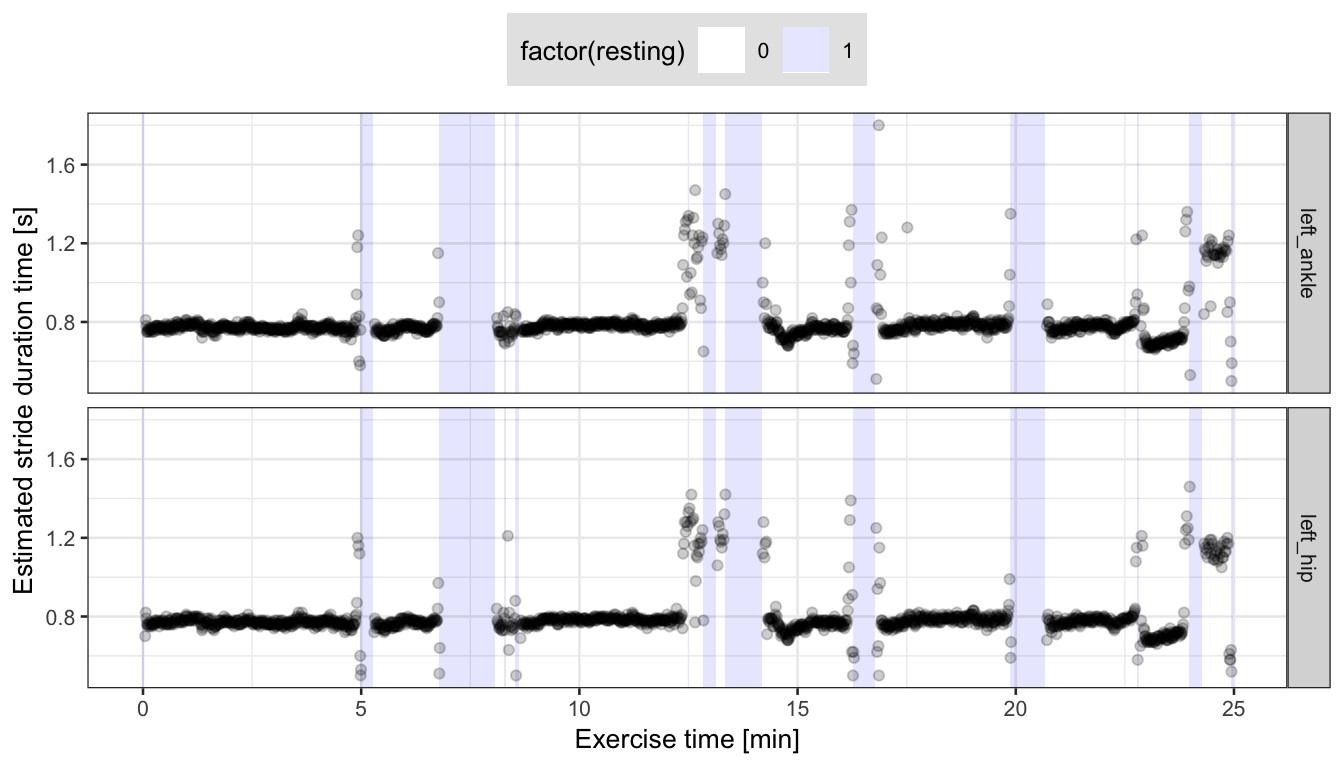
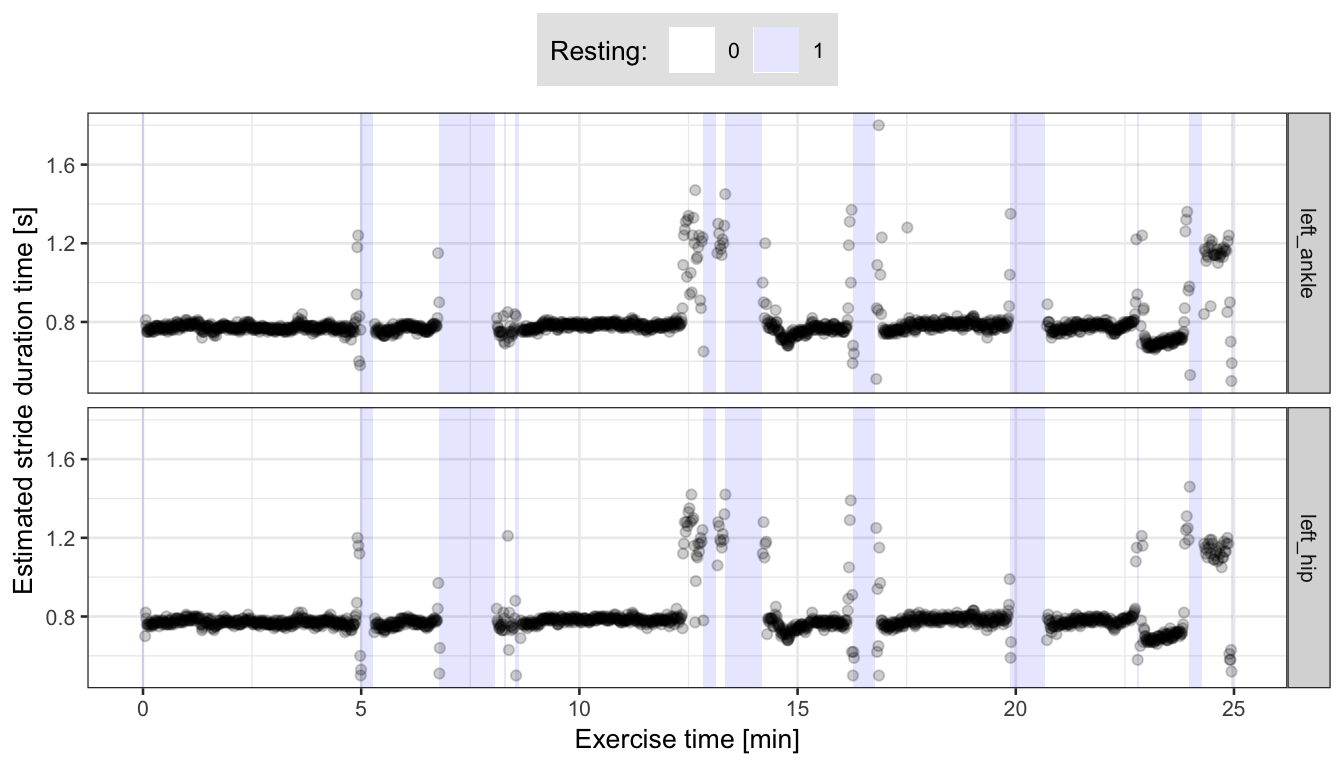
Changes in readme, minor changes in vignette.

Changed region(s): [[0.375, 0.0, 0.6562, 0.125]]

diff --git a/docs/articles/adept-strides-segmentation.html b/docs/articles/adept-strides-segmentation.html
@@ -83,7 +83,7 @@
       <h1>Walking strides segmentation with adept</h1>
                         <h4 class="author">Marta Karas</h4>
             
-            <h4 class="date">2019-03-07</h4>
+            <h4 class="date">2019-03-08</h4>
       
       <small class="dont-index">Source: <a href="https://github.com/martakarass/adept/blob/master/vignettes/adept-strides-segmentation.Rmd"><code>vignettes/adept-strides-segmentation.Rmd</code></a></small>
       <div class="hidden name"><code>adept-strides-segmentation.Rmd</code></div>
@@ -469,7 +469,8 @@ plt.df &lt;-<span class="st"> </span><span class="kw"><a href="https://www.rdocu
 <span class="st">  </span><span class="kw"><a href="https://ggplot2.tidyverse.org/reference/geom_point.html">geom_point</a></span>(<span class="dt">alpha =</span> <span class="fl">0.2</span>) <span class="op">+</span><span class="st"> </span>
 <span class="st">  </span><span class="kw"><a href="https://ggplot2.tidyverse.org/reference/facet_grid.html">facet_grid</a></span>(location <span class="op">~</span><span class="st"> </span>.) <span class="op">+</span><span class="st"> </span>
 <span class="st">  </span><span class="kw"><a href="https://ggplot2.tidyverse.org/reference/ggtheme.html">theme_bw</a></span>(<span class="dt">base_size =</span> <span class="dv">10</span>) <span class="op">+</span><span class="st"> </span>
-<span class="st">  </span><span class="kw"><a href="https://ggplot2.tidyverse.org/reference/labs.html">labs</a></span>(<span class="dt">x =</span> <span class="st">"Exercise time [min]"</span>, <span class="dt">y =</span> <span class="st">"Estimated stride duration time [s]"</span>) <span class="op">+</span><span class="st"> </span>
+<span class="st">  </span><span class="kw"><a href="https://ggplot2.tidyverse.org/reference/labs.html">labs</a></span>(<span class="dt">x =</span> <span class="st">"Exercise time [min]"</span>, <span class="dt">y =</span> <span class="st">"Estimated stride duration time [s]"</span>,
+       <span class="dt">fill =</span> <span class="st">"Resting: "</span>) <span class="op">+</span><span class="st"> </span>
 <span class="st">  </span><span class="kw"><a href="https://ggplot2.tidyverse.org/reference/theme.html">theme</a></span>(<span class="dt">legend.position =</span> <span class="st">"top"</span>) <span class="op">+</span><span class="st"> </span>
 <span class="st">  </span><span class="kw"><a href="https://ggplot2.tidyverse.org/reference/scale_manual.html">scale_fill_manual</a></span>(<span class="dt">values =</span> <span class="kw"><a href="https://www.rdocumentation.org/packages/base/topics/c">c</a></span>(<span class="st">"white"</span>, <span class="st">"blue"</span>)) <span class="op">+</span><span class="st"> </span>
 <span class="st">  </span><span class="kw"><a href="https://ggplot2.tidyverse.org/reference/theme.html">theme</a></span>(<span class="dt">legend.position =</span> <span class="st">"top"</span>,
@@ -776,7 +777,8 @@ plt.df &lt;-<span class="st"> </span><span class="kw"><a href="https://www.rdocu
 <span class="st">  </span><span class="kw"><a href="https://ggplot2.tidyverse.org/reference/geom_point.html">geom_point</a></span>(<span class="dt">alpha =</span> <span class="fl">0.2</span>) <span class="op">+</span><span class="st"> </span>
 <span class="st">  </span><span class="kw"><a href="https://ggplot2.tidyverse.org/reference/facet_grid.html">facet_grid</a></span>(location <span class="op">~</span><span class="st"> </span>.) <span class="op">+</span><span class="st"> </span>
 <span class="st">  </span><span class="kw"><a href="https://ggplot2.tidyverse.org/reference/ggtheme.html">theme_bw</a></span>(<span class="dt">base_size =</span> <span class="dv">10</span>) <span class="op">+</span><span class="st"> </span>
-<span class="st">  </span><span class="kw"><a href="https://ggplot2.tidyverse.org/reference/labs.html">labs</a></span>(<span class="dt">x =</span> <span class="st">"Exercise time [min]"</span>, <span class="dt">y =</span> <span class="st">"Estimated stride duration time [s]"</span>) <span class="op">+</span><span class="st"> </span>
+<span class="st">  </span><span class="kw"><a href="https://ggplot2.tidyverse.org/reference/labs.html">labs</a></span>(<span class="dt">x =</span> <span class="st">"Exercise time [min]"</span>, <span class="dt">y =</span> <span class="st">"Estimated stride duration time [s]"</span>,
+       <span class="dt">fill =</span> <span class="st">"Resting: "</span>) <span class="op">+</span><span class="st"> </span>
 <span class="st">  </span><span class="kw"><a href="https://ggplot2.tidyverse.org/reference/theme.html">theme</a></span>(<span class="dt">legend.position =</span> <span class="st">"top"</span>) <span class="op">+</span><span class="st"> </span>
 <span class="st">  </span><span class="kw"><a href="https://ggplot2.tidyverse.org/reference/scale_manual.html">scale_fill_manual</a></span>(<span class="dt">values =</span> <span class="kw"><a href="https://www.rdocumentation.org/packages/base/topics/c">c</a></span>(<span class="st">"white"</span>, <span class="st">"blue"</span>)) <span class="op">+</span><span class="st"> </span>
 <span class="st">  </span><span class="kw"><a href="https://ggplot2.tidyverse.org/reference/theme.html">theme</a></span>(<span class="dt">legend.position =</span> <span class="st">"top"</span>,

diff --git a/docs/index.html b/docs/index.html
@@ -102,20 +102,44 @@ devtools<span class="op">::</span><span class="kw"><a href="https://www.rdocumen
 <h2 class="hasAnchor">
 <a href="#vignettes" class="anchor"></a>Vignettes</h2>
 <p>Vignettes are available to better explain package methods functionality.</p>
-<ol style="list-style-type: decimal">
-<li>Vignette <a href="https://martakarass.github.io/adept/articles/adept-intro.html">Introduction to adept package</a> intends to introduce a reader to the ADEPT method and demonstrate the usage of the <code>segmentPattern</code> function which implements ADEPT method. Here, we focus on illustrating <code>segmentPattern</code> functionality with a comprehesive set of simulated data examples.</li>
-</ol>
-<p><img src="inst/img/readme_art1_pic1.png" width="24%"><img src="inst/img/readme_art1_pic2.png" width="60%"></p>
-<ol start="2" style="list-style-type: decimal">
-<li>
+<div id="vignette-1--introduction-to-adept-package" class="section level4">
+<h4 class="hasAnchor">
+<a href="#vignette-1--introduction-to-adept-package" class="anchor"></a>Vignette 1. Introduction to adept package</h4>
+<p>Vignette <a href="https://martakarass.github.io/adept/articles/adept-intro.html">Introduction to adept package</a> intends to introduce a reader to the ADEPT method and demonstrate the usage of the <code>segmentPattern</code> function which implements ADEPT method. Here, we focus on illustrating <code>segmentPattern</code> functionality with a comprehesive set of simulated data examples.</p>
+<div class="figure">
+<img src="https://imgur.com/Z45aaTf.jpg" style="width:75.0%">
+</div>
+</div>
+<div id="vignette-2--walking-strides-segmentation-with-adept" class="section level4">
+<h4 class="hasAnchor">
+<a href="#vignette-2--walking-strides-segmentation-with-adept" class="anchor"></a>Vignette 2. Walking strides segmentation with adept</h4>
 <p>Vignette <a href="https://martakarass.github.io/adept/articles/adept-strides-segmentation.html">Walking strides segmentation with adept</a> provides an example of walking stride segmentation from subsecond accelerometry data with <code>adept</code> package. We demonstrate that ADEPT method can be used to perform automatic and precise walking stride segmentation from data collected during a combination of running, walking and resting exercise. We demonstrate how to segment stride pattern:</p>
 <ol style="list-style-type: lower-alpha">
 <li>with the use of stride templates that were pre-computed based on data from an external study,</li>
 <li>by deriving new stride templates in a semi-manual manner.</li>
 </ol>
-</li>
-</ol>
-<p><img src="inst/img/readme_art2_pic1.png" width="70%"><img src="inst/img/readme_art2_pic2.png" width="70%"><img src="inst/img/readme_art2_pic3.png" width="70%"></p>
+<div id="accelerometry-data-collection" class="section level5">
+<h5 class="hasAnchor">
+<a href="#accelerometry-data-collection" class="anchor"></a>Accelerometry data collection</h5>
+<div class="figure">
+<img src="https://imgur.com/7P6KB0G.jpg" style="width:75.0%">
+</div>
+</div>
+<div id="accelerometry-data-visualization" class="section level5">
+<h5 class="hasAnchor">
+<a href="#accelerometry-data-visualization" class="anchor"></a>Accelerometry data visualization</h5>
+<div class="figure">
+<img src="https://imgur.com/2hrUomw.jpg" style="width:75.0%">
+</div>
+</div>
+<div id="segmentation-results" class="section level5">
+<h5 class="hasAnchor">
+<a href="#segmentation-results" class="anchor"></a>Segmentation results</h5>
+<div class="figure">
+<img src="https://imgur.com/YhguNLb.jpg" style="width:75.0%">
+</div>
+</div>
+</div>
 </div>
 </div>
   </div>

diff --git a/docs/articles/adept-intro.html b/docs/articles/adept-intro.html
@@ -83,7 +83,7 @@
       <h1>Introduction to adept package</h1>
                         <h4 class="author">Marta Karas</h4>
             
-            <h4 class="date">2019-03-07</h4>
+            <h4 class="date">2019-03-08</h4>
       
       <small class="dont-index">Source: <a href="https://github.com/martakarass/adept/blob/master/vignettes/adept-intro.Rmd"><code>vignettes/adept-intro.Rmd</code></a></small>
       <div class="hidden name"><code>adept-intro.Rmd</code></div>
@@ -96,7 +96,7 @@
 <h1 class="hasAnchor">
 <a href="#intro" class="anchor"></a>Intro</h1>
 <p><code>adept</code> package implements ADaptive Empirical Pattern Transformation (ADEPT) ([1]) <strong>method for pattern segmentation from a time-series <code>x</code></strong>. ADEPT was designed for optimal use in performing fast, accurate walking strides segmentation from high-density data collected from a wearable accelerometer worn during continuous walking activity. <!-- It has been tested ([1]) for data collected with sensors worn at left wrist, left hip and both ankles.  --></p>
-<p>This vignette intends to introduce a reader to the ADEPT method and demonstrate the usage of the <code>segmentPattern</code> function which implements ADEPT method. Here, we focus on illustrating <code>segmentPattern</code> functionality via simulated data examples; see the *Walking strides segmentation with <code>adept</code>“* vignette ([2]) for an example of walking stride segmentation from subsecond accelerometry data with <code>adept</code> package.</p>
+<p>This vignette intends to introduce a reader to the ADEPT method and demonstrate the usage of the <code>segmentPattern</code> function which implements ADEPT method. Here, we focus on illustrating <code>segmentPattern</code> functionality via simulated data examples; see the <a href="file://localhost/Users/martakaras/Dropbox/_PROJECTS/R/adept/docs/articles/adept-strides-segmentation.html">Walking strides segmentation with adept</a> vignette for an example of walking stride segmentation from subsecond accelerometry data with <code>adept</code> package.</p>
 </div>
 <div id="adept-method" class="section level1">
 <h1 class="hasAnchor">
@@ -804,7 +804,6 @@ out.plot2 &lt;-<span class="st"> </span><span class="cf">function</span>(val, va
 <a href="#references" class="anchor"></a>References</h1>
 <p>References:</p>
 <p>1: Karas, M., Straczkiewicz, M., Fadel, W., Harezlak, J., Crainiceanu, C., Urbanek, J.K. <em>Adaptive empirical pattern transformation (ADEPT) with application to walking stride segmentation</em>, Submitted to <em>Biostatistics</em>, 2018.</p>
-<p>2: Karas, M. <em>Walking strides segmentation with <code>adept</code></em> package vignette.</p>
 </div>
   </div>
 

diff --git a/README.md b/README.md
@@ -19,13 +19,27 @@ Vignettes
 
 Vignettes are available to better explain package methods functionality.
 
-1.  Vignette [Introduction to adept package](https://martakarass.github.io/adept/articles/adept-intro.html) intends to introduce a reader to the ADEPT method and demonstrate the usage of the `segmentPattern` function which implements ADEPT method. Here, we focus on illustrating `segmentPattern` functionality with a comprehesive set of simulated data examples.
+#### Vignette 1. Introduction to adept package
 
-<img src="inst/img/readme_art1_pic1.png" width="24%" /> <img src="inst/img/readme_art1_pic2.png" width="60%" />
+Vignette [Introduction to adept package](https://martakarass.github.io/adept/articles/adept-intro.html) intends to introduce a reader to the ADEPT method and demonstrate the usage of the `segmentPattern` function which implements ADEPT method. Here, we focus on illustrating `segmentPattern` functionality with a comprehesive set of simulated data examples.
 
-1.  Vignette [Walking strides segmentation with adept](https://martakarass.github.io/adept/articles/adept-strides-segmentation.html) provides an example of walking stride segmentation from subsecond accelerometry data with `adept` package. We demonstrate that ADEPT method can be used to perform automatic and precise walking stride segmentation from data collected during a combination of running, walking and resting exercise. We demonstrate how to segment stride pattern:
+<img src="https://imgur.com/Z45aaTf.jpg" style="width:75.0%" />
 
-    1.  with the use of stride templates that were pre-computed based on data from an external study,
-    2.  by deriving new stride templates in a semi-manual manner.
+#### Vignette 2. Walking strides segmentation with adept
 
-<img src="inst/img/readme_art2_pic1.png" width="70%" /><img src="inst/img/readme_art2_pic2.png" width="70%" /><img src="inst/img/readme_art2_pic3.png" width="70%" />
+Vignette [Walking strides segmentation with adept](https://martakarass.github.io/adept/articles/adept-strides-segmentation.html) provides an example of walking stride segmentation from subsecond accelerometry data with `adept` package. We demonstrate that ADEPT method can be used to perform automatic and precise walking stride segmentation from data collected during a combination of running, walking and resting exercise. We demonstrate how to segment stride pattern:
+
+1.  with the use of stride templates that were pre-computed based on data from an external study,
+2.  by deriving new stride templates in a semi-manual manner.
+
+##### Accelerometry data collection
+
+<img src="https://imgur.com/7P6KB0G.jpg" style="width:75.0%" />
+
+##### Accelerometry data visualization
+
+<img src="https://imgur.com/2hrUomw.jpg" style="width:75.0%" />
+
+##### Segmentation results
+
+<img src="https://imgur.com/YhguNLb.jpg" style="width:75.0%" />
